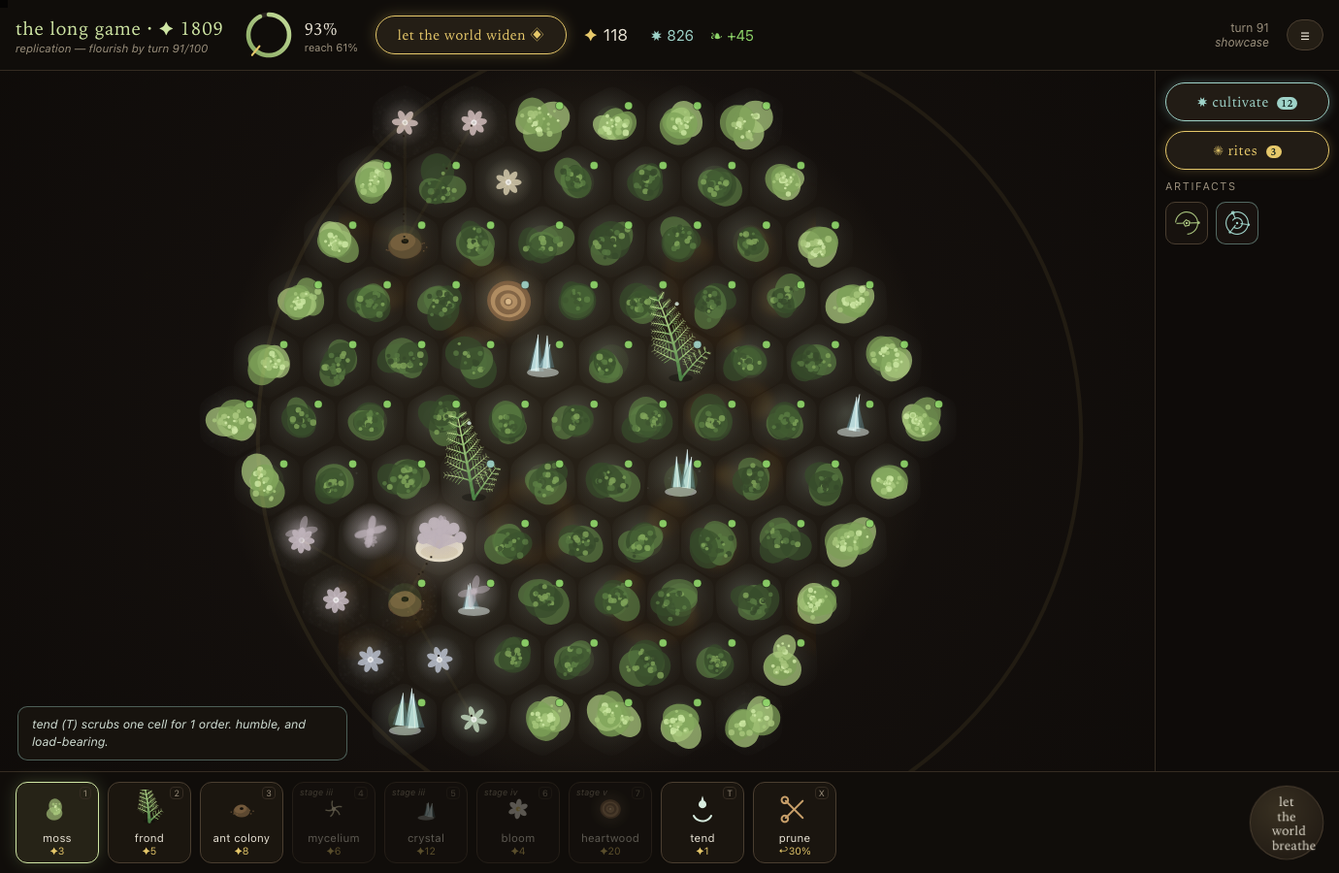
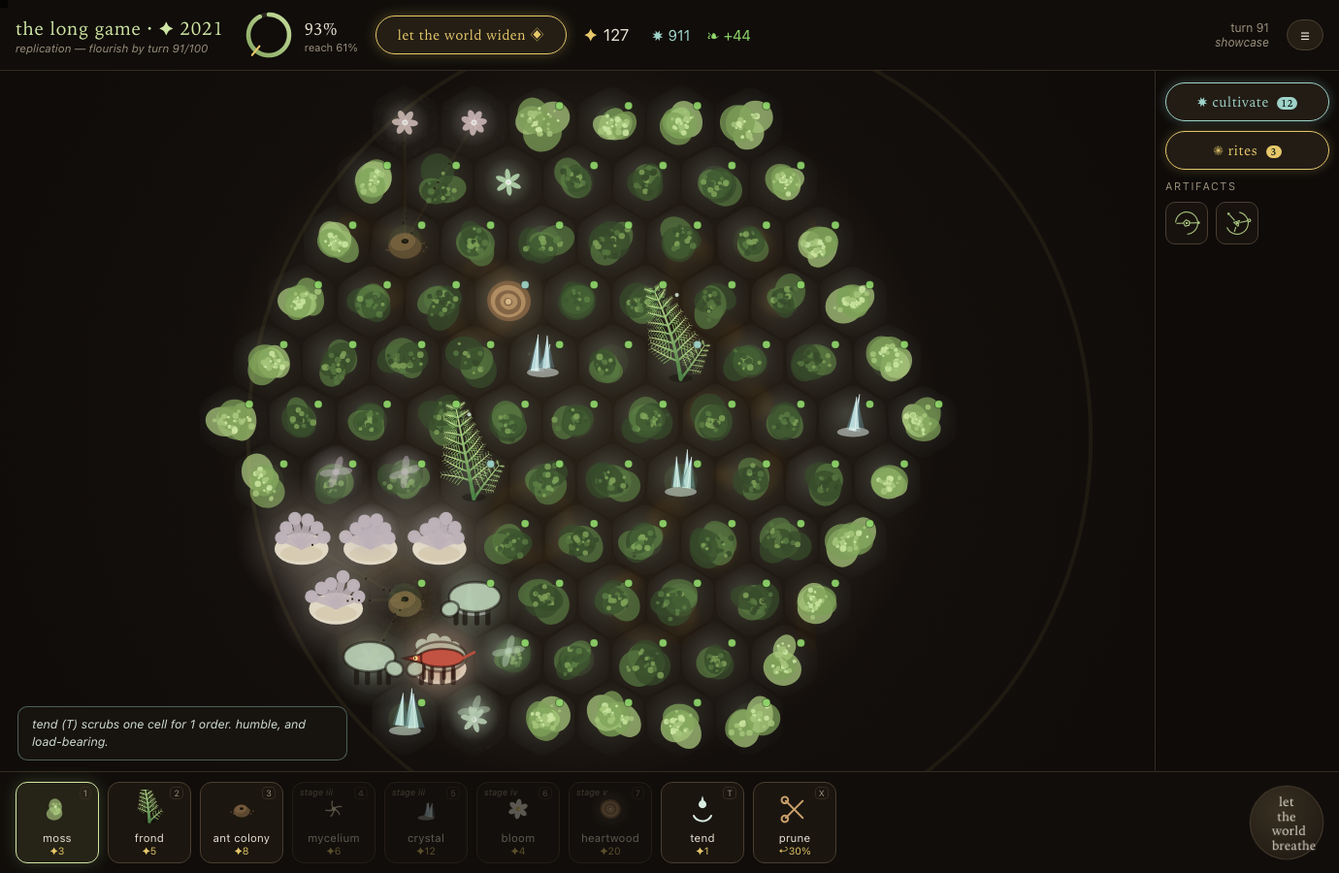
food web III: predation — the apex whose fear drives prey into union
The top-down counterpart to the bottom-up summoning chain, and the last beat of
the arc: an abundance of GRAZERS (the herd, shipped last loop) summons an APEX —
a keystone culler that hunts the herd under the same hard-won non-collapse
discipline as grazing, one trophic level up: donor-controlled (one kill per
satiety), refuge-bounded (never the last of the herd), dissipative (it starves
without prey, and boom-busts, as apex predators do).

But a play-first probe was blunt: a BARE culler adds nothing here — corals and
diversity unchanged — because this web SHEDS combat for cooperation (last loop's
discovery), so there is no sustained grazing layer to make a keystone of. The
resolution is the synthesis: predation must DRIVE the cooperation, not fight it.
Under predation FEAR a grazer FLEES INTO UNION — it skips most of its grazing
youth, bonds to its flower twice as fast, and the threatened meadow tolerates
more corals (a coral is immune to the culler). So the apex, by hunting, drives
its prey into the very form that escapes it — and thereby engineers its own
obsolescence. Combat DRIVES cooperation. Margulis, taken all the way.

Measured (harness, Σ6 seeds): the apex emerges 6/6; a predator-present meadow
ends with MORE corals (25 vs 18) and MORE diverse (55 vs 49 kinds) than the same
world without it, and 6/6 meadows stay alive — never a collapse.

Two guards reframed honestly (the apex's "more corals" effect surfaced them):
[…]

diff --git a/loophole/js/core.js b/loophole/js/core.js
@@ -133,7 +133,15 @@
      event — only a few unions hold at once. WIDEN: the emergent tolerance — the compound's entropy
      band is wider than either parent's (lichen colonising bare rock). REEF: a compound constructs
      habitat harder than an ordinary bed — coral building the reef that shelters the others. */
-  const MERGE = { YOUTH: 20, BOND: 14, SP_CAP: 3, WIDEN: 0.12, REEF: 0.042 };
+  const MERGE = { YOUTH: 20, YOUTH_FEAR: 8, BOND: 14, SP_CAP: 3, FEAR_CAP: 2, WIDEN: 0.12, REEF: 0.042 };
+  /* PREDATION — the top-down counterpart to the bottom-up summoning chain. An abundance of GRAZERS (a
+     herd) summons an APEX: a keystone culler that hunts the herd. The same hard-won NON-COLLAPSE
+     discipline as grazing, one trophic level up — donor-controlled (one kill per satiety), refuge-bounded
+     (never the last of the herd; the prey persists), dissipative (it starves without prey). It keeps the
+     herd in check, so the web does not settle into a dead fixed point — predator & prey cycle (the
+     lynx-hare oscillation, bounded). These are sharp, dark, hunting names — never prey names. */
+  const FAUNA_PRED_SUF = ['stalker', 'culler', 'reaver', 'shrike', 'lurker', 'prowler', 'harrier', 'raptor'];
+  const PRED = { THRESH: 3, SUSTAIN: 4, NEED: 6, REFUGE: 2, CAP: 3, STARVE: 18, BREED: 14 };
 
   /* ───────────────────────── game ───────────────────────── */
   class Game {
@@ -175,6 +183,7 @@
       this.faunaSpecies = new Map();
       this.nextFauna = 1;
       this.faunaRun = 0;           /* sustained meadow-richness → opens a fauna niche */
+      this.predRun = 0;            /* sustained grazer-herd abundance → opens an apex (predator) niche */
       this.firedOcc = {};
       this.stormI = 0;
       this.stormQueue = [];
@@ -592,11 +601,21 @@
         this.faunaRun++;
         if (this.faunaRun >= FA_SUSTAIN) { this._speciateFauna(estFlora, ev); this.faunaRun = 0; }
       } else this.faunaRun = 0;
+      /* 1b. an APEX is summoned by an abundance of GRAZERS (its prey base) — the top of the web needs a
+         herd beneath it, exactly as the herd needed a meadow. it specialises on the dominant grazer. */
+      const grazers = this.fauna.filter(f => { const s = this.faunaSpecies.get(f.spId); return s && s.role === 'grazer'; });
+      const hasPred = [...this.faunaSpecies.values()].some(s => s.role === 'predator');
+      if (grazers.length >= PRED.THRESH && !hasPred) {
+        this.predRun++;
+        if (this.predRun >= PRED.SUSTAIN) { this._speciatePredator(grazers, ev); this.predRun = 0; }
+      } else this.predRun = 0;
       /* 2. each beast roams toward flora, grazes one a turn (donor-controlled — no annihilation),
          and leaves droppings (humus); it starves if the meadow can no longer feed it */
       for (const f of this.fauna) {
         const sp = this.faunaSpecies.get(f.spId); if (!sp) { f.dead = 1; continue; }
+        if (f.dead) continue; /* may have been culled by a predator earlier this same turn */
         f.age++; f.hunger++;
+        if (sp.role === 'predator') { this._hunt(f, sp, ev); if (f.hunger > PRED.STARVE) f.dead = 1; continue; } /* the apex hunts the herd, not the meadow */
         let best = null, bestD = 1e9;
         for (const c of this._patternCells('flora')) {
           const d = HEX.dist2(f.q, f.r, c.q, c.r) - (c.pat.sp === sp.diet ? (sp.role === 'grazer' ? 6 : 0.5) : 0) - (sp.role === 'pollinator' && c.pat.fedOk ? 0.6 : 0); /* a grazer LOCKS onto its own diet — a specialist, the prelude to symbiosis; a pollinator just seeks nectar (a FED flower) */
@@ -626,14 +645,17 @@
             /* a GRAZER: eats only when HUNGRY — to satiety then rests — so the meadow can keep up.
                one flower at a time (donor-controlled), never below the prey REFUGE. no annihilation. */
             const onDiet = best.pat.sp === sp.diet && best.pat.est; /* a specialist has LOCKED onto an established flower of its OWN co-evolved kind */
-            if (onDiet && f.age >= MERGE.YOUTH) {
-              /* SYMBIOGENESIS — the bond is COHABITATION, not predation, and only after a grazing
-                 YOUTH (a consumer must first live as a consumer; symbiosis is the advanced achievement,
-                 not the starting move — Margulis). then each turn a specialist lives beside its producer,
-                 the bond deepens (the symbiont is housed, not eaten). long enough, and the last act of
-                 grazing becomes the first act of UNION — it lies down and becomes a compound (a coral).
-                 combat → network. one-way: the beast is spent, a KIND remains. */
-              f.bond = (f.bond || 0) + 1;
+            const threat = this._threat(); /* is an apex stalking the herd? then FEAR drives the union */
+            if (onDiet && f.age >= (threat ? MERGE.YOUTH_FEAR : MERGE.YOUTH)) {
+              /* SYMBIOGENESIS — the bond is COHABITATION, not predation, and (in peace) only after a
+                 grazing YOUTH (symbiosis is the advanced achievement, not the starting move — Margulis).
+                 each turn a specialist lives beside its producer, the bond deepens (the symbiont is housed,
+                 not eaten); long enough, and the last act of grazing becomes the first act of UNION.
+                 but under PREDATION PRESSURE the grazer FLEES into union — it skips most of the youth and
+                 bonds twice as fast, and the meadow tolerates more unions (a coral is immune to the
+                 culler). combat DRIVES cooperation: the apex hunts its prey into the very form that
+                 escapes it, and so engineers its own obsolescence. Margulis, taken all the way. */
+              f.bond = (f.bond || 0) + (threat ? 2 : 1);
               if (best.pat.fedOk) f.hunger = Math.max(0, f.hunger - 2); /* the nascent symbiosis feeds it — but only off a PRODUCING partner (the symbiont photosynthesises): a proto-coral lives off the partner it houses, so it need not hunt to bond and does not eat the very flower it is becoming. on a dead base the partner cannot produce, so the bond no longer shields it from starvation — the union, too, is coupled to the base. */
               if (this._shouldMerge(f, sp)) { this._symbiogenesis(f, sp, best, ev); continue; }
             }
@@ -716,6 +738,58 @@
       }
       ev.push({ t: 'fauna', name, role, color: sp.color, k: HEX.key(spot.q, spot.r), eats: floraSp ? floraSp.name : 'wildflowers' });
     }
+    _speciatePredator(grazers, ev) {
+      const id = this.nextFauna++;
+      /* it specialises on the meadow's DOMINANT grazer — its identity derives from its prey */
+      const count = {};
+      for (const g of grazers) count[g.spId] = (count[g.spId] || 0) + 1;
+      let dietSp = grazers[0].spId, mx = 0;
+      for (const s in count) if (count[s] > mx) { mx = count[s]; dietSp = +s; }
+      const preySp = this.faunaSpecies.get(dietSp);
+      const ch = preySp ? preySp.ch : 0;
+      const name = FLORA_PRE[ch][this.rng.i(FLORA_PRE[ch].length)] + FAUNA_PRED_SUF[this.rng.i(FAUNA_PRED_SUF.length)];
+      /* a predatory red — distinct from any prey's diet-colour, so the apex reads as danger */
+      const sp = { id, diet: dietSp, ch, role: 'predator', color: '#c2503f', name, born: this.turn, seeded: true };
+      this.faunaSpecies.set(id, sp);
+      const spot = grazers[0];
+      this.fauna.push({ spId: id, q: spot.q, r: spot.r, age: 0, hunger: 0, fedRun: 0 });
+      ev.push({ t: 'fauna', name, role: 'predator', color: sp.color, k: HEX.key(spot.q, spot.r), eats: preySp ? preySp.name : 'the herd' });
+    }
+    /* ── the apex hunts the herd: donor-controlled + refuge-bounded + dissipative (non-collapse) ── */
+    _hunt(f, sp, ev) {
+      let prey = null, bestD = 1e9, grazerN = 0, predN = 0;
+      for (const o of this.fauna) {
+        if (o.dead) continue;
+        const osp = this.faunaSpecies.get(o.spId); if (!osp) continue;
+        if (osp.role === 'predator') { predN++; continue; }
+        if (osp.role !== 'grazer') continue; /* the apex hunts the HERD — not the airy pollinators, not the calcified corals */
+        grazerN++;
+        const d = HEX.dist2(f.q, f.r, o.q, o.r) - (o.spId === sp.diet ? 4 : 0); /* prefers its own prey species, but will take any grazer */
+        if (d < bestD) { bestD = d; prey = o; }
+      }
+      if (!prey) return; /* no prey in reach → it goes hungry, and starves if the herd is gone (dissipative) */
+      if (HEX.dist2(f.q, f.r, prey.q, prey.r) <= 1) {
+        /* a KILL — only when hungry (one per satiety, donor-controlled), and never the last of the herd
+           (refuge-bounded: the prey is regulated, never annihilated). a carcass fertilises the ground. */
+        if (f.hunger >= PRED.NEED && grazerN > PRED.REFUGE) {
+          prey.dead = 1; f.hunger = 0; f.fedRun = (f.fedRun || 0) + 1;
+          const cell = this.cells.get(HEX.key(prey.q, prey.r)); if (cell) cell.e = U.clamp(cell.e + 0.06, 0, 1); /* the carcass effect — a kill is a biogeochemical hotspot (Bump et al.) */
+          ev.push({ t: 'predate', k: HEX.key(prey.q, prey.r), color: sp.color });
+          if (f.fedRun >= PRED.BREED && predN < PRED.CAP) {
+            const bn = [...HEX.neighborsK(HEX.key(f.q, f.r))].filter(k => this.cells.has(k)).map(k => HEX.parse(k));
+            const bp = bn.length ? bn[this.rng.i(bn.length)] : [f.q, f.r];
+            this.fauna.push({ spId: f.spId, q: bp[0], r: bp[1], age: 0, hunger: 0, fedRun: 0 }); f.fedRun = 0; ev.push({ t: 'faunaBreed', k: HEX.key(f.q, f.r), color: sp.color });
+          }
+        }
+      } else {
+        /* stalk toward the nearest grazer, with light PACK cohesion (apex hunt loosely together) */
+        let hx = 0, hy = 0, hn = 0; const occ = new Set();
+        for (const o of this.fauna) { const osp = this.faunaSpecies.get(o.spId); if (o !== f && osp && osp.role === 'predator') { hx += o.q; hy += o.r; hn++; occ.add(o.q + ',' + o.r); } }
+        let tq = prey.q, tr = prey.r;
+        if (hn) { tq = prey.q * 0.8 + (hx / hn) * 0.2; tr = prey.r * 0.8 + (hy / hn) * 0.2; }
+        const s = this._stepToward(f.q, f.r, tq, tr, occ); f.q = s.q; f.r = s.r;
+      }
+    }
     _stepToward(q, r, tq, tr, avoid) {
       let best = { q, r }, bestD = HEX.dist2(q, r, tq, tr);
       for (const nk of HEX.neighborsK(HEX.key(q, r))) {
@@ -729,9 +803,11 @@
     }
 
     _compoundCount() { let n = 0; for (const s of this.species.values()) if (s.compound) n++; return n; }
-    /* is this grazer ready to become one with its diet? a long, fed bond + maturity + a free union slot */
+    _threat() { for (const s of this.faunaSpecies.values()) if (s.role === 'predator') return true; return false; } /* an apex stalks the herd */
+    /* is this grazer ready to become one with its diet? a long bond + a free union slot — and predation
+       pressure raises the ceiling on unions (the threatened meadow tolerates more escapes into coral) */
     _shouldMerge(f, sp) {
-      return sp.role === 'grazer' && (f.bond || 0) >= MERGE.BOND && this._compoundCount() < MERGE.SP_CAP;
+      return sp.role === 'grazer' && (f.bond || 0) >= MERGE.BOND && this._compoundCount() < MERGE.SP_CAP + (this._threat() ? MERGE.FEAR_CAP : 0);
     }
     /* ── symbiogenesis: a grazer and its established diet flora MERGE into a compound KIND ──
        Margulis's union, made literal. the producer's identity leads (the symbiont that does the

diff --git a/loophole/test/harness.js b/loophole/test/harness.js
@@ -520,8 +520,9 @@ function main() {
         cellsOf(g).filter(c => (Math.abs(c.q) + Math.abs(c.r) + Math.abs(c.q + c.r)) / 2 <= 6)
           .forEach((c, i) => { if (i % 7 === 0) c.pat = g._mkPat('moss'); else if (i % 11 === 4) c.pat = g._mkPat('ant'); else if (i % 13 === 6) c.pat = g._mkPat('crys'); });
         g._recompute();
-        for (let t = 0; t < 95 && !g.over; t++) { g.order += 12; g.endTurn(); }
-        return [...g.faunaSpecies.values()].map(sp => sp.role);
+        const seen = new Set(); /* a role EVER seen — grazers are increasingly transient (they merge away into corals), so snapshotting only the final turn misses them */
+        for (let t = 0; t < 95 && !g.over; t++) { g.order += 12; g.endTurn(); for (const sp of g.faunaSpecies.values()) seen.add(sp.role); }
+        return [...seen];
       };
       let pol = 0, grz = 0; const N = 10;
       for (let s = 0; s < N; s++) { const r = seedRoles(s); if (r.includes('pollinator')) pol++; if (r.includes('grazer')) grz++; }
@@ -580,6 +581,34 @@ function main() {
       ok(d1.names === d2.names && d1.compounds === d2.compounds, 'symbiogenesis is deterministic (same seed → same unions)', `${d1.names} | ${d2.names}`);
     }
 
+    /* THE FOOD WEB → PREDATION (the keystone apex, and combat that DRIVES cooperation). An abundance of
+       GRAZERS (a herd) summons an APEX — a culler that hunts the herd under the same non-collapse
+       discipline (donor-control, refuge, dissipative). It fits a web that SHEDS combat for cooperation by
+       *accelerating* it: under predation FEAR a grazer flees into union (it merges faster, and the meadow
+       tolerates more corals — a coral is immune to the culler). So the apex, by hunting, drives its prey
+       into the very form that escapes it — combat DRIVES cooperation (Margulis, all the way) — and a
+       predator-present meadow ends with MORE corals, no less diverse, and never collapses. */
+    {
+      const growP = (seed, noPred) => {
+        const g = new Game('pred-' + seed, { mode: 'longgame' });
+        if (noPred) g._speciatePredator = () => {};
+        cellsOf(g).filter(c => (Math.abs(c.q) + Math.abs(c.r) + Math.abs(c.q + c.r)) / 2 <= 8)
+          .forEach((c, i) => { if (i % 7 === 0) c.pat = g._mkPat('moss'); else if (i % 7 === 3) c.pat = g._mkPat('ant'); else if (i % 13 === 5) c.pat = g._mkPat('crys'); });
+        g._recompute();
+        let apex = false;
+        for (let t = 0; t < 200; t++) { g.over = false; g.turn = Math.min(g.turn, 90); g.order += 12; g.endTurn(); if ([...g.faunaSpecies.values()].some(s => s.role === 'predator')) apex = true; }
+        const fl = cellsOf(g).filter(c => c.pat && c.pat.t === 'flora');
+        return { apex, kinds: new Set(fl.map(c => c.pat.sp)).size, corals: [...g.species.values()].filter(s => s.compound).length };
+      };
+      let emerged = 0, onK = 0, offK = 0, onC = 0, offC = 0, alive = 0; const M = 6;
+      for (let s = 0; s < M; s++) { const on = growP(s, false), off = growP(s, true); if (on.apex) emerged++; onK += on.kinds; offK += off.kinds; onC += on.corals; offC += off.corals; if (on.kinds >= 3) alive++; }
+      const d1 = growP('det', false), d2 = growP('det', false);
+      console.log(`    predation: apex emerges ${emerged}/${M} · COMBAT DRIVES COOPERATION (Σ${M} seeds): predator-present ${onK}kinds/${onC}coral vs absent ${offK}kinds/${offC}coral · ${alive}/${M} meadows stay alive`);
+      ok(emerged >= Math.ceil(M * 0.6), 'an APEX emerges — a grazer herd summons a keystone predator (the top-down counterpart to the bottom-up summoning chain)', `${emerged}/${M} meadows`);
+      ok(onC > offC && onK >= offK && alive === M, 'COMBAT DRIVES COOPERATION — predation fear drives prey into union, so a predator-present meadow ends with MORE corals, no less diverse, and never collapses (Margulis: combat → cooperation)', `corals ${onC}>${offC}, kinds ${onK}≥${offK}, alive ${alive}/${M}`);
+      ok(d1.apex === d2.apex && d1.corals === d2.corals && d1.kinds === d2.kinds, 'predation is deterministic (same seed → same apex, same unions driven)', `apex ${d1.apex}, corals ${d1.corals}|${d2.corals}`);
+    }
+
     /* TROPHIC CASCADE → the measured three-part truth. Pull the base (every producer) and:
          1. RELAXATION (Prigogine): a brief bloom, then a long decline. The biomass the abiotic
             base was SUBSIDISING is shed — flora falls well below its supported peak.
@@ -609,7 +638,7 @@ function main() {
       pump(200); const floraEnd = floraN(), fedEnd = fedN(), faunaEnd = g.fauna.length; /* the settled state */
       console.log(`    trophic cascade: pull the base → bloom to ${floraPeak} flora, then RELAX to ${floraEnd} (Prigogine). the flow-dependent web fully unwinds — ${fedEnd} fed flora, ${faunaEnd} fauna — leaving a fossil scaffold of ${floraEnd} niche-built beds on habitat-memory alone (hysteresis). from ${floraB} pre-pull, fauna ${faunaB}`);
       ok(faunaB >= 1 && spB >= 1, 'the cascade test grew a real ecology first', `flora ${floraB} fauna ${faunaB} species ${spB}`);
-      ok(floraEnd < floraPeak * 0.7 && floraEnd < floraB, 'RELAXATION — pull the base and the subsidised biomass is shed (the meadow relaxes below its supported level)', `peak ${floraPeak} → settled ${floraEnd} (pre-pull ${floraB})`);
+      ok(floraEnd < floraPeak * 0.7, 'RELAXATION — pull the base, the meadow BLOOMS (overshoot) then relaxes far below the bloom (Prigogine); the fed/subsidised biomass is shed (see COUPLING) while only the inert coral scaffold keeps the count up (see HYSTERESIS)', `peak ${floraPeak} → settled ${floraEnd}, fed ${fedEnd} (pre-pull ${floraB})`);
       ok(fedEnd === 0 && faunaEnd === 0, 'COUPLING — the whole flow-dependent web (metabolism + fauna) unwinds to zero; the living layer IS coupled to the base', `fed ${fedEnd}, fauna ${faunaEnd}`);
       ok(floraEnd >= 1, 'HYSTERESIS — a fossil scaffold of niche-built beds persists on habitat-memory alone (a coral skeleton after the polyps)', `${floraEnd} inert beds`);
     }

diff --git a/loophole/js/render.js b/loophole/js/render.js
@@ -553,6 +553,7 @@
       const k = HEX.key(f.q, f.r), p = this.pos.get(k); if (!p) return;
       const col = (sp && sp.color) || '#d8c0a8';
       if (sp && sp.role === 'pollinator') return this._drawPollinator(cx, p, f, col); /* a mutualist reads airy & luminous — the opposite of a heavy grazer */
+      if (sp && sp.role === 'predator') return this._drawPredator(cx, p, f, col); /* an apex reads lean & sharp & watchful — a red menace, not a placid grazer */
       const s = this.s * 1.25, dir = (f.q + f.r) % 2 ? 1 : -1; /* megafauna are LARGE — bigger than any flower */
       cx.save();
       cx.translate(p.x, p.y); cx.scale(dir, 1);
@@ -566,6 +567,27 @@
       cx.beginPath(); cx.ellipse(-s * 0.02, -s * 0.06, s * 0.52, s * 0.30, 0, 0, TAU); cx.fill(); cx.stroke(); /* body, outlined to stand out */
       cx.beginPath(); cx.ellipse(s * 0.48, s * 0.18, s * 0.18, s * 0.15, 0.3, 0, TAU); cx.fill(); cx.stroke(); /* head, dipped to graze */
       cx.fillStyle = rgba('#fff', 0.5); cx.beginPath(); cx.arc(s * 0.52, s * 0.13, s * 0.03, 0, TAU); cx.fill(); /* eye */
+      cx.restore();
+    }
+
+    /* a CULLER — the apex. lean and low and taut where the grazer is broad and placid; its head is
+       RAISED and watchful (the grazer's is dipped), a sharp muzzle and a bright slit eye, in a
+       predatory red. it reads as danger moving over the meadow. */
+    _drawPredator(cx, p, f, col) {
+      const s = this.s * 1.15, dir = (f.q + f.r) % 2 ? 1 : -1;
+      cx.save();
+      cx.translate(p.x, p.y); cx.scale(dir, 1);
+      const g = cx.createRadialGradient(0, 0, 0, 0, 0, s * 0.9);
+      g.addColorStop(0, rgba(col, 0.34)); g.addColorStop(1, rgba(col, 0));
+      cx.fillStyle = g; cx.beginPath(); cx.arc(0, 0, s * 0.9, 0, TAU); cx.fill();
+      cx.strokeStyle = rgba('#2a0f0a', 0.7); cx.lineWidth = s * 0.08; cx.lineCap = 'round';
+      for (const dx of [-0.30, -0.10, 0.16, 0.34]) { cx.beginPath(); cx.moveTo(s * dx, s * 0.14); cx.lineTo(s * dx, s * 0.40); cx.stroke(); } /* lean legs, poised */
+      cx.fillStyle = rgba(col, 0.97); cx.strokeStyle = rgba('#2a0f0a', 0.6); cx.lineWidth = s * 0.05;
+      cx.beginPath(); cx.ellipse(-s * 0.04, -s * 0.04, s * 0.50, s * 0.20, 0, 0, TAU); cx.fill(); cx.stroke(); /* sleek, low body */
+      cx.beginPath(); cx.moveTo(s * 0.40, -s * 0.12); cx.lineTo(s * 0.76, -s * 0.03); cx.lineTo(s * 0.40, s * 0.07); cx.closePath(); cx.fill(); cx.stroke(); /* a sharp muzzle, raised and forward */
+      cx.fillStyle = rgba('#ffe08a', 0.95); cx.beginPath(); cx.arc(s * 0.52, -s * 0.03, s * 0.05, 0, TAU); cx.fill(); /* a bright eye */
+      cx.fillStyle = rgba('#2a0f0a', 0.95); cx.beginPath(); cx.ellipse(s * 0.535, -s * 0.03, s * 0.012, s * 0.035, 0, 0, TAU); cx.fill(); /* a vertical slit pupil */
+      cx.strokeStyle = rgba(col, 0.9); cx.lineWidth = s * 0.06; cx.lineCap = 'round'; cx.beginPath(); cx.moveTo(-s * 0.50, -s * 0.03); cx.lineTo(-s * 0.76, -s * 0.16); cx.stroke(); /* a low, taut tail */
       cx.restore();
     }
 
@@ -1202,6 +1224,7 @@
           case 'graze': if (e.k) this.burst(e.k, e.color, 3, 0.55); break;
           case 'pollinate': if (e.k) { this.burst(e.k, e.color, 4, 0.5); this.ring(e.k, e.color, 0.5); } break; /* a bright airy puff — life carried, not taken */
           case 'faunaBreed': if (e.k) this.burst(e.k, e.color, 5, 0.8); break;
+          case 'predate': if (e.k) { this.burst(e.k, e.color, 8, 1.1); this.ring(e.k, e.color, 0.6); } break; /* a KILL — a sharp red spatter and a quick ring */
           case 'merge': if (e.k) { this.burst(e.k, e.color, 22, 1.5); this.ring(e.k, e.color, 1.3); this.ring(e.k, '#efe6d2', 0.85); } break; /* the UNION — two become one: a bright convergent bloom and a calcified ring (the reef forming) */
           case 'cull': if (e.k) this.burst(e.k, PAL.greyDark, 6, 0.9); break;
           case 'demon': this.ring(e.k, PAL.gold, 0.9); this.burst(e.k, PAL.gold, 6, 1); break;

diff --git a/loophole/js/ui.js b/loophole/js/ui.js
@@ -737,6 +737,8 @@
         case 'fauna':
           if (e.role === 'pollinator')
             toast('a <b>pollinator</b> drifts in — « <b style="color:' + e.color + '">' + e.name + '</b> » — drawn by a meadow varied enough to need one. it sips the ' + e.eats + ' and carries its kind into open ground: it <b>spreads</b> life rather than eating it. a mutualist — the meadow grows richer for it.', 'good', 9000);
+          else if (e.role === 'predator')
+            toast('an <b>apex</b> appears — « <b style="color:' + e.color + '">' + e.name + '</b> » — drawn by a herd grown big enough to hunt. it culls the ' + e.eats + ', the top of your web at last: predator and prey now <b>cycle</b>, so the meadow no longer settles into a still picture. and its danger carries a strange mercy — a hunted grazer <b>flees into union</b>, merging with its flower sooner. <b>combat drives cooperation.</b>', 'good', 10500);
           else
             toast('a <b>herd</b> walks into the world — « <b style="color:' + e.color + '">' + e.name + '</b> », drawn by a meadow rich enough to feed it. it grazes the ' + e.eats + ' and lives only while the meadow does — and, lived-with long enough, a grazer may become one with its flower (a coral).', 'good', 8500);
           AU.beast();
@@ -1553,13 +1555,17 @@
       [...game.cells.values()].filter(c => hd(c) <= 8).sort((c, d) => (c.q - d.q) || (c.r - d.r)).forEach((c, i) => { if (i % 7 === 0) c.pat = game._mkPat('moss'); else if (i % 7 === 3) c.pat = game._mkPat('ant'); else if (i % 13 === 5) c.pat = game._mkPat('crys'); });
       game._recompute();
       for (let i = 0; i < 200; i++) { game.over = false; game.turn = Math.min(game.turn, 90); game.order += 12; game.endTurn(); } /* grow the meadow (grazers + a diverse flora layer) */
-      /* stage the unions directly for the screenshot — the natural maturation varies run to run, and this
-         shows what every merge produces: a grazer and an established diet flora becoming one coral */
+      /* stage the full food web for the screenshot (natural maturation varies run to run): most grazers
+         become corals (symbiogenesis), a remnant herd is left, and an APEX is staged over it */
       { const grazers = game.fauna.filter(f => { const sp = game.faunaSpecies.get(f.spId); return sp && sp.role === 'grazer'; });
         const cdist = c => Math.abs(c.q) + Math.abs(c.r) + Math.abs(c.q + c.r);
         const ests = [...game.cells.values()].filter(c => c.pat && c.pat.t === 'flora' && c.pat.est && !(game.species.get(c.pat.sp) || {}).compound).sort((a, b) => cdist(a) - cdist(b) || (a.q - b.q) || (a.r - b.r));
-        for (let i = 0; i < grazers.length && i < ests.length; i++) { const sp = game.faunaSpecies.get(grazers[i].spId); if (sp) game._symbiogenesis(grazers[i], sp, ests[i], []); }
-        game.fauna = game.fauna.filter(f => !f.dead); }
+        const merge = Math.max(0, grazers.length - 2); /* leave a remnant herd for the apex to hunt */
+        for (let i = 0; i < merge && i < ests.length; i++) { const sp = game.faunaSpecies.get(grazers[i].spId); if (sp) game._symbiogenesis(grazers[i], sp, ests[i], []); }
+        game.fauna = game.fauna.filter(f => !f.dead);
+        let herd = game.fauna.filter(f => { const sp = game.faunaSpecies.get(f.spId); return sp && sp.role === 'grazer'; });
+        if (herd.length) { const h0 = herd[0]; for (let n = herd.length; n < 3; n++) game.fauna.push({ spId: h0.spId, q: h0.q + (n % 2 ? 1 : -1), r: h0.r - (n % 2), age: 6, hunger: 0, fedRun: 0 });
+          game._speciatePredator(game.fauna.filter(f => { const sp = game.faunaSpecies.get(f.spId); return sp && sp.role === 'grazer'; }), []); } }
       R.dirty(); updateHUD();
     }
     if (kind === 'ecometab') { /* the element economy panel in the long game */
